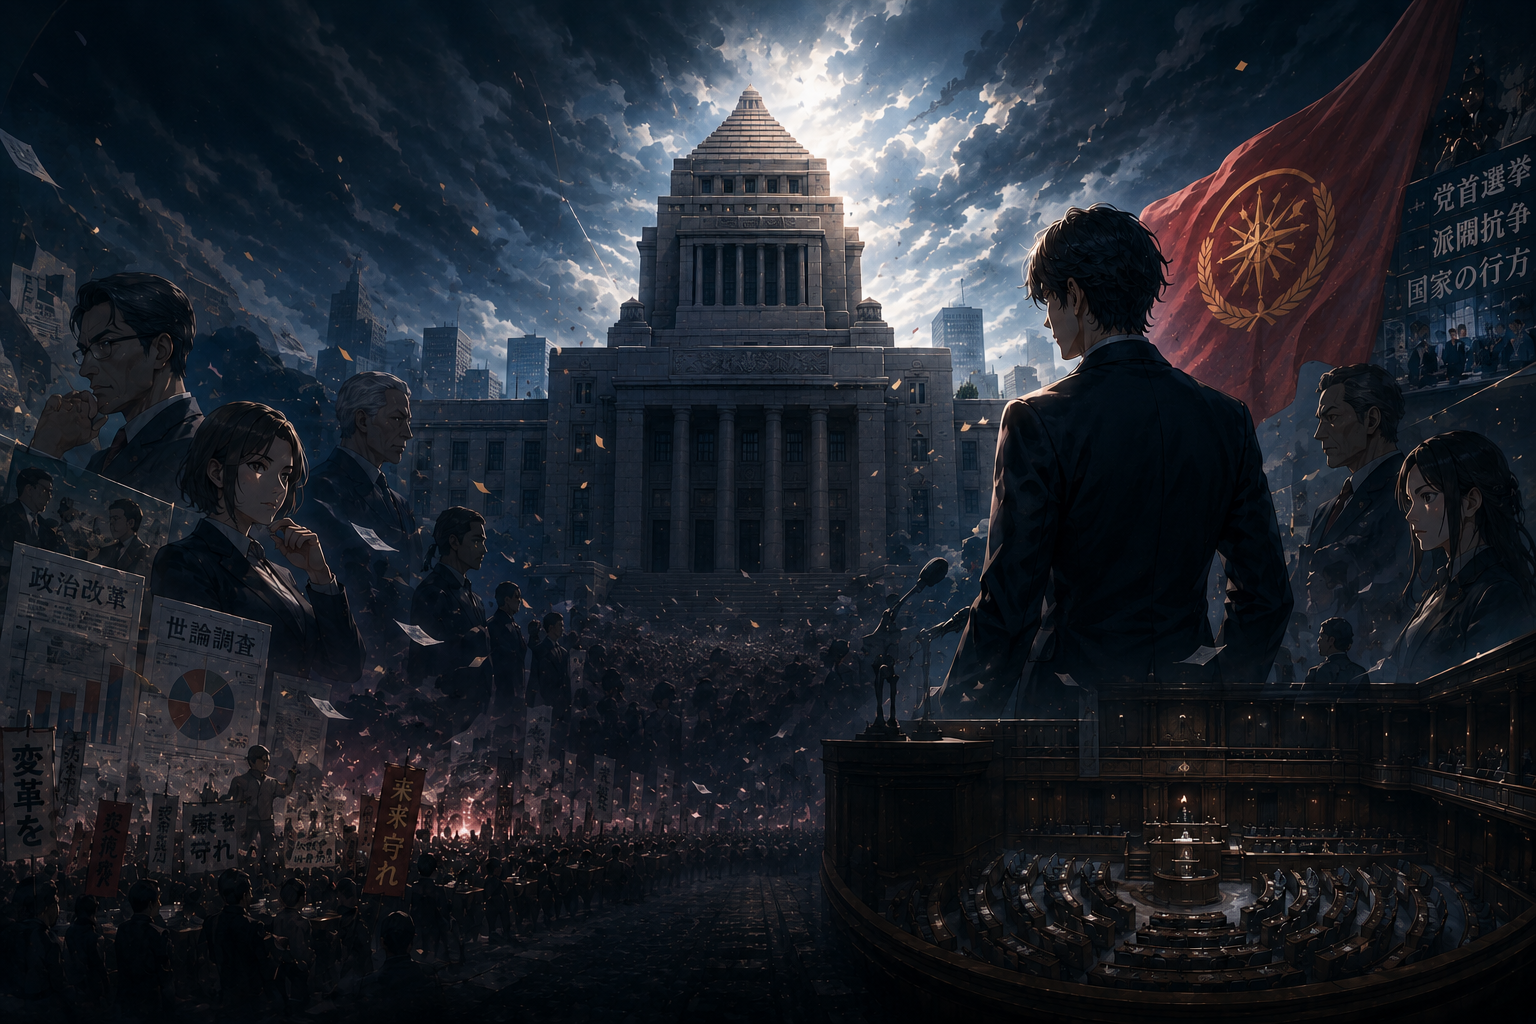
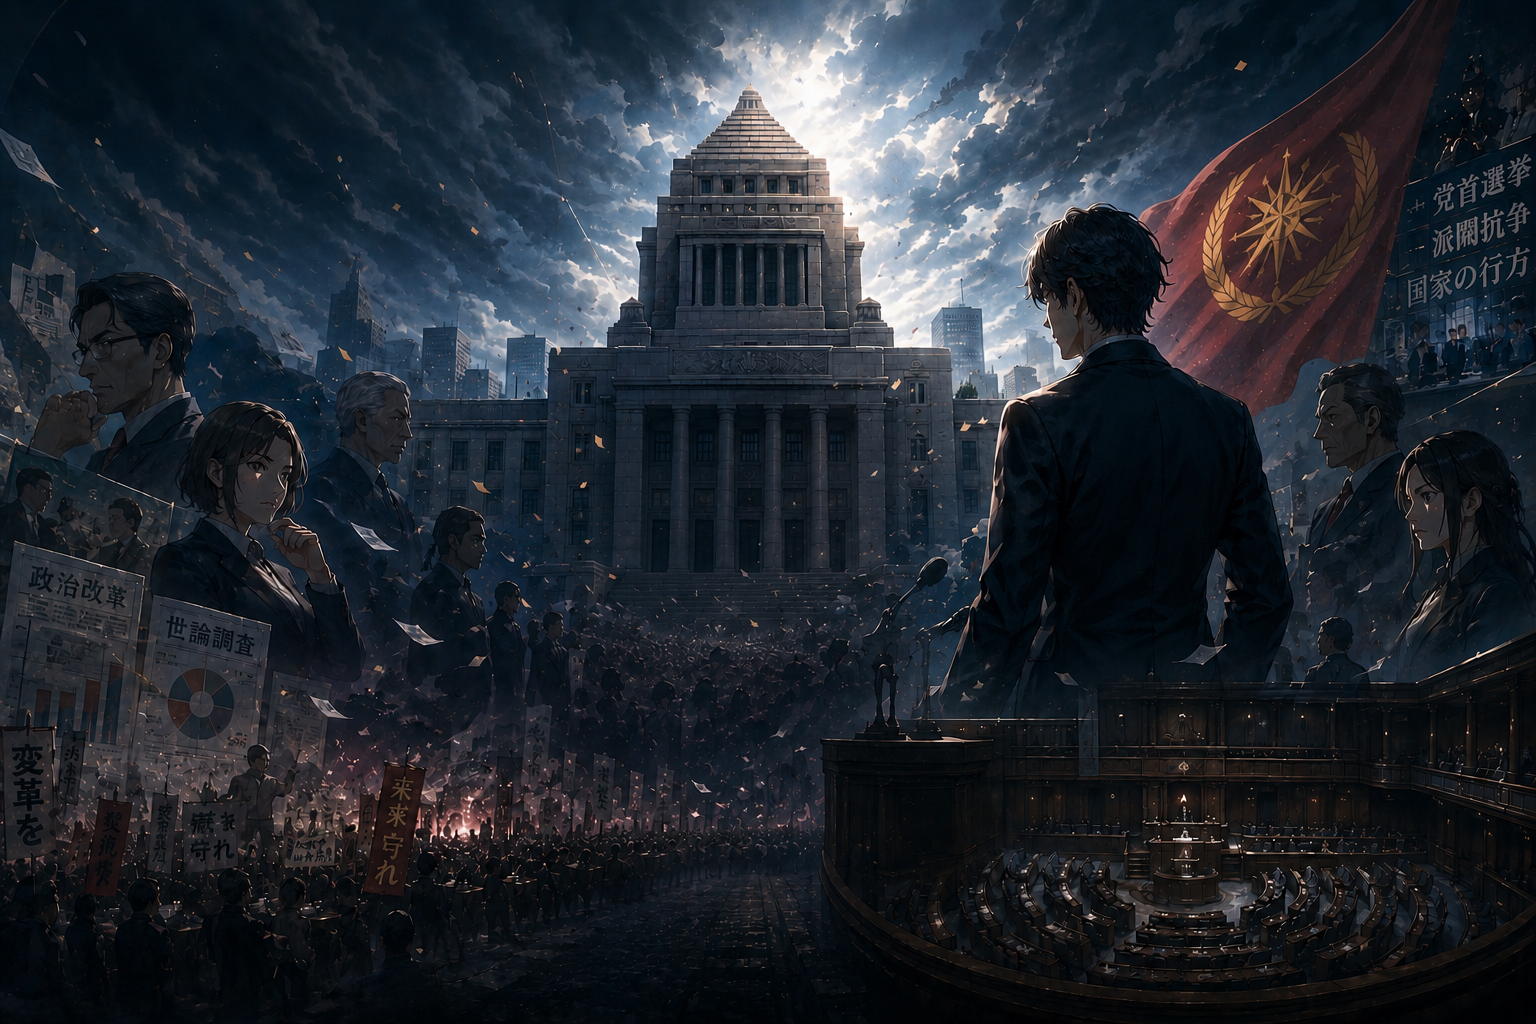
Refine main menu typography and spacing
Use serif font for all title-area text and button labels. Make subtitle
and tagline more visible with brighter silver-gold colors, center them
under the title, and tighten decorative line spacing.

diff --git a/src/components/MainMenu.tsx b/src/components/MainMenu.tsx
@@ -357,7 +357,7 @@ const styles: Record<string, React.CSSProperties> = {
     width: '20%',
     height: 1,
     background: 'linear-gradient(90deg, rgba(192, 168, 130, 0.6), transparent)',
-    marginBottom: 28,
+    marginBottom: 16,
   },
   title: {
     margin: 0,
@@ -373,24 +373,30 @@ const styles: Record<string, React.CSSProperties> = {
   },
   subtitle: {
     fontSize: 'clamp(14px, 1.5vw, 18px)',
-    color: '#96794D',
+    color: '#B8A47C',
     marginTop: 16,
     letterSpacing: 6,
     fontWeight: 400,
+    fontFamily: '"Noto Serif SC", "Source Han Serif SC", Georgia, serif',
+    textAlign: 'center' as const,
+    width: '100%',
   },
   tagline: {
     fontSize: 'clamp(11px, 1vw, 14px)',
-    color: 'rgba(150, 121, 77, 0.55)',
+    color: '#B8A47C',
     marginTop: 8,
     letterSpacing: 3,
-    fontWeight: 300,
+    fontWeight: 600,
     fontStyle: 'italic',
+    fontFamily: '"Noto Serif SC", "Source Han Serif SC", Georgia, serif',
+    textAlign: 'center' as const,
+    width: '100%',
   },
   decorLineBottom: {
     width: '15%',
     height: 1,
     background: 'linear-gradient(90deg, rgba(192, 168, 130, 0.5), transparent)',
-    marginTop: 24,
+    marginTop: 12,
   },
   buttonGroup: {
     display: 'flex',
@@ -440,6 +446,7 @@ const styles: Record<string, React.CSSProperties> = {
     fontWeight: 700,
     letterSpacing: 6,
     color: '#C0A882',
+    fontFamily: '"Noto Serif SC", "Source Han Serif SC", Georgia, serif',
   },
   menuBtnSub: {
     fontSize: 9,